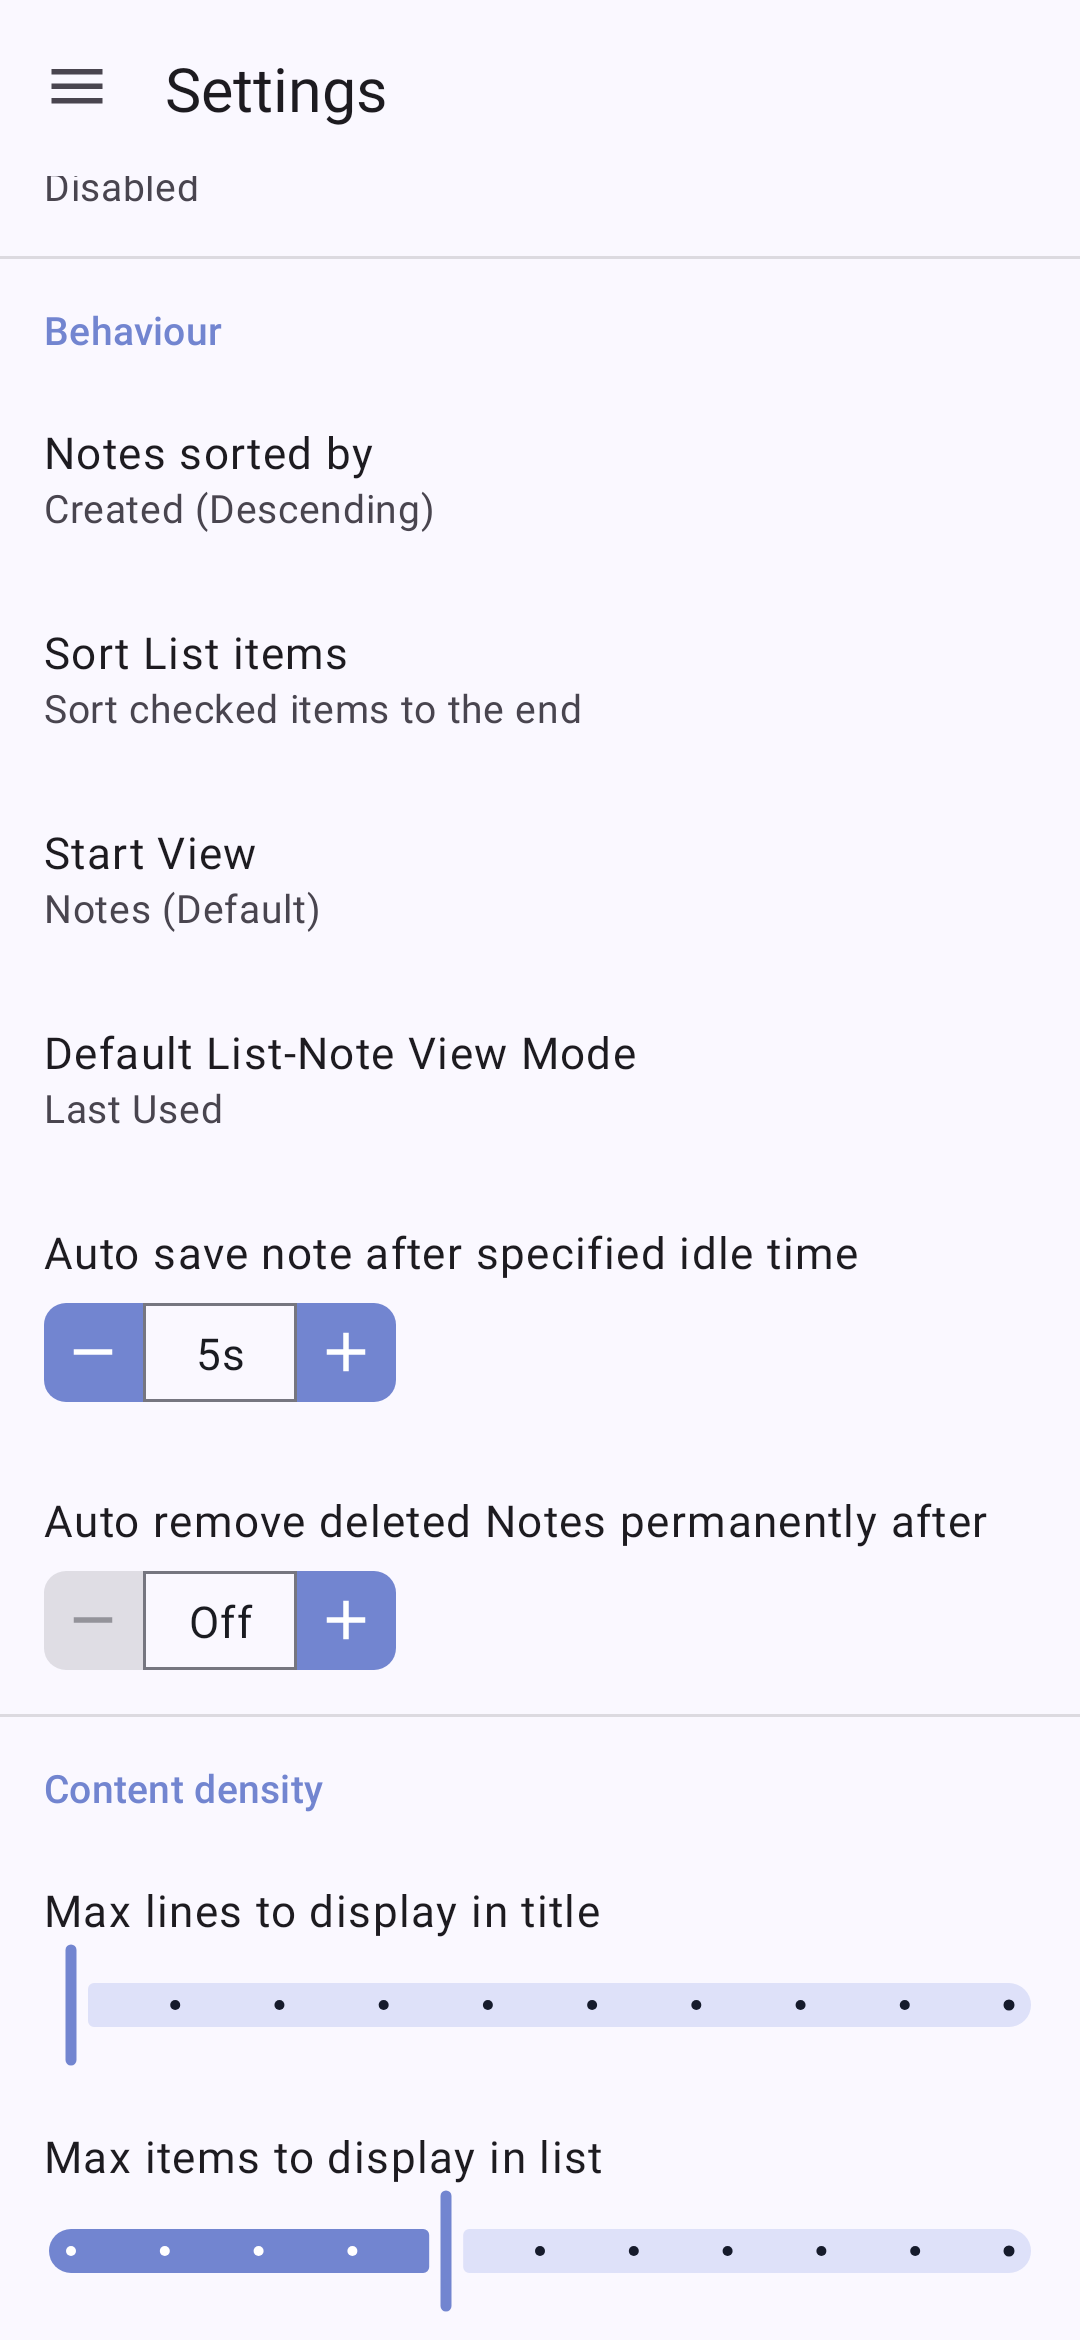
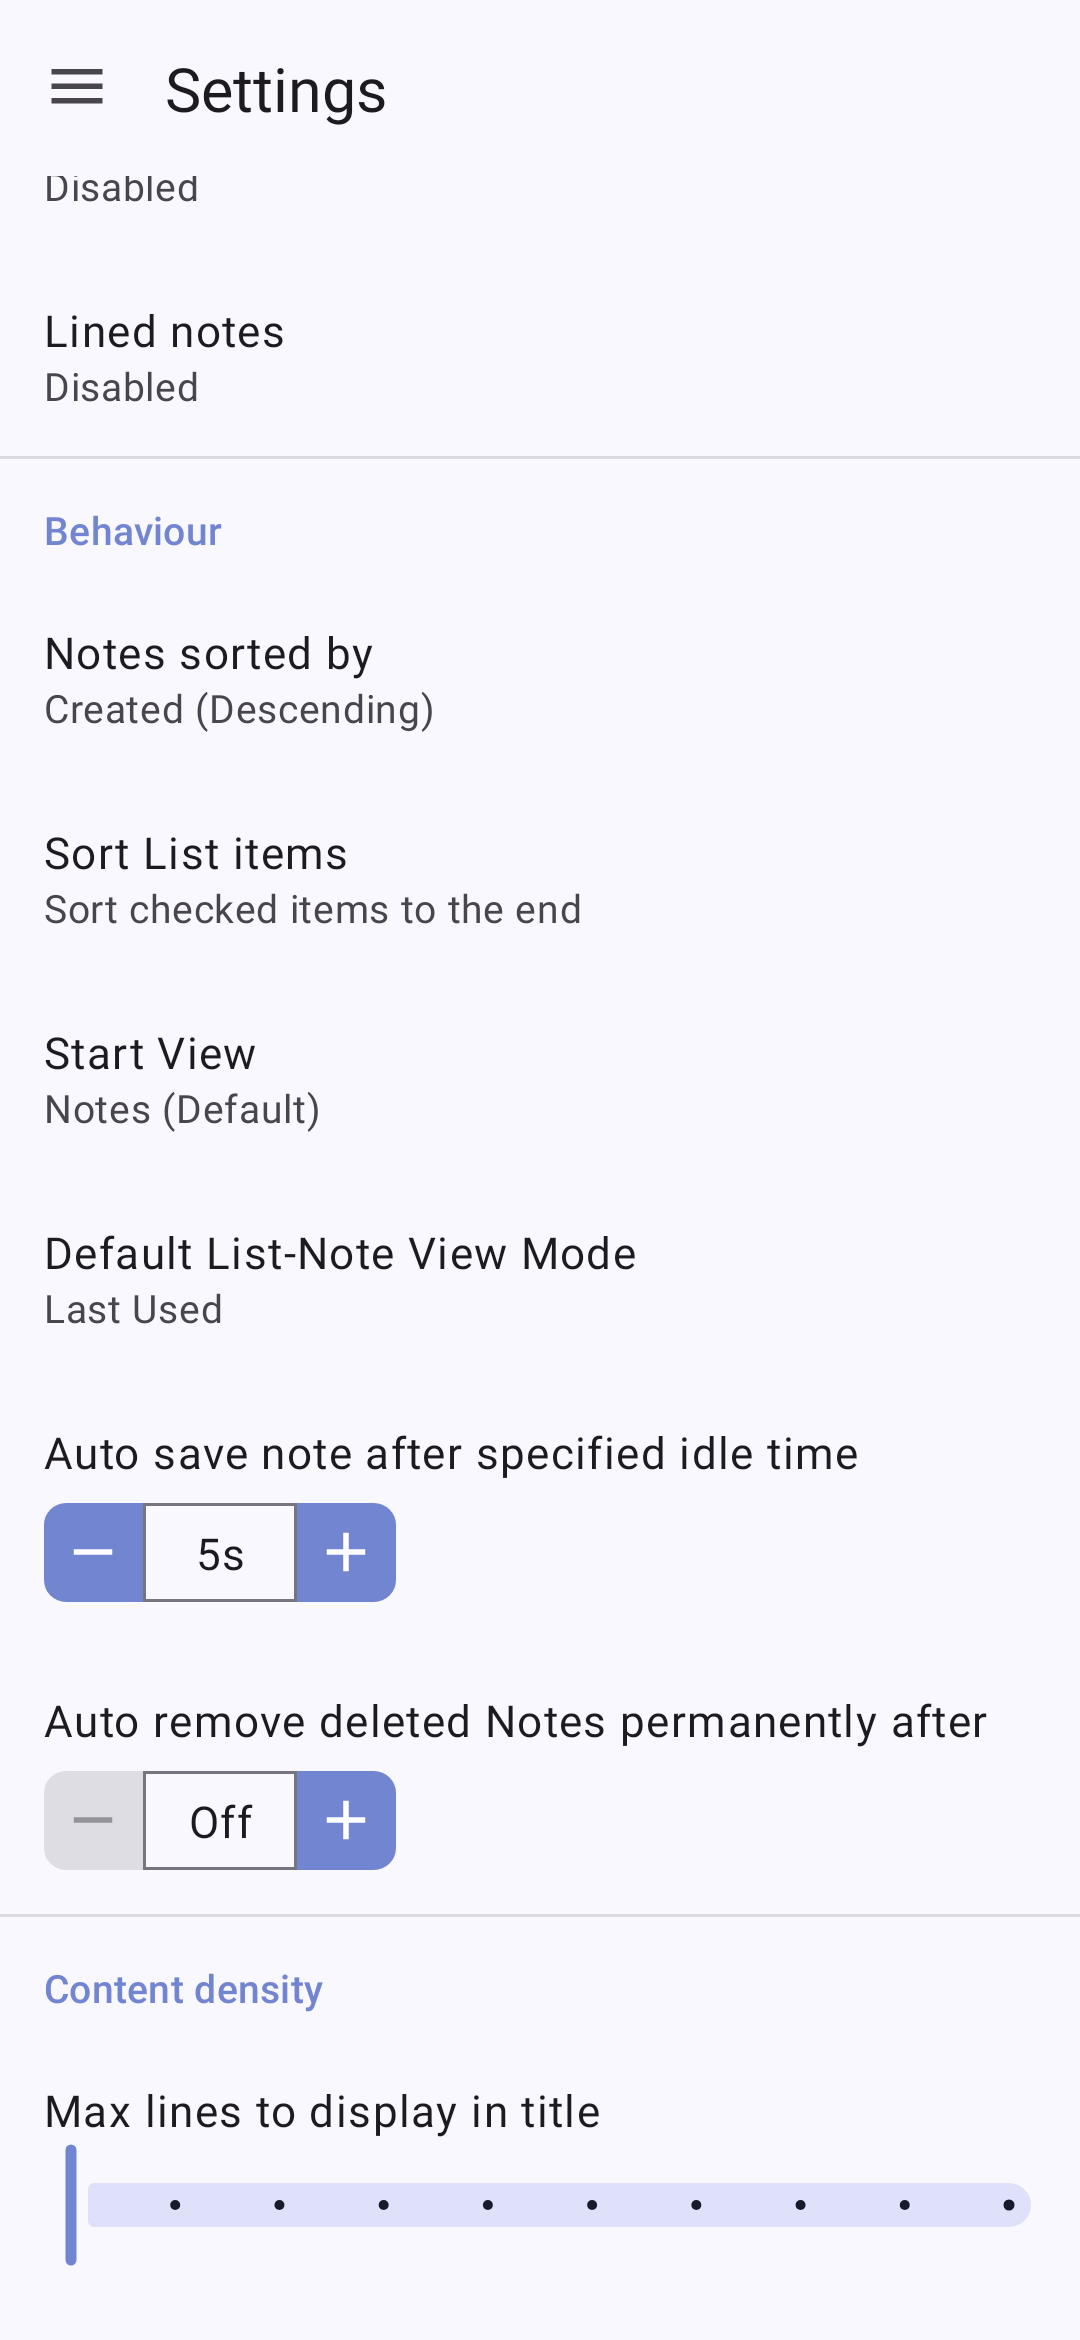
Add optional lined paper to opened text notes

diff --git a/app/src/test/kotlin/com/philkes/notallyx/presentation/activity/main/ScreenshotTests.kt b/app/src/test/kotlin/com/philkes/notallyx/presentation/activity/main/ScreenshotTests.kt
@@ -1,6 +1,9 @@
 package com.philkes.notallyx.presentation.activity.main
 
 import android.content.Intent
+import android.graphics.Bitmap
+import android.graphics.Canvas
+import android.graphics.Color
 import android.os.SystemClock
 import android.view.View
 import android.view.ViewGroup
@@ -45,6 +48,7 @@ import com.philkes.notallyx.data.model.Reminder
 import com.philkes.notallyx.presentation.activity.main.MainActivity.Companion.EXTRA_FRAGMENT_TO_OPEN
 import com.philkes.notallyx.presentation.activity.note.EditActivity.Companion.EXTRA_SELECTED_BASE_NOTE
 import com.philkes.notallyx.presentation.activity.note.EditNoteActivity
+import com.philkes.notallyx.presentation.view.note.NoteLinesDrawable
 import com.philkes.notallyx.presentation.view.note.action.MoreNoteBottomSheet
 import com.philkes.notallyx.presentation.viewmodel.preference.NotesView
 import com.philkes.notallyx.test.FakeAndroidKeyStore
@@ -67,6 +71,8 @@ import kotlinx.coroutines.withContext
 import org.junit.After
 import org.junit.Assert.assertEquals
 import org.junit.Assert.assertFalse
+import org.junit.Assert.assertNull
+import org.junit.Assert.assertTrue
 import org.junit.BeforeClass
 import org.junit.Rule
 import org.junit.Test
@@ -276,6 +282,93 @@ class ScreenshotTests {
             .children
             .first { it.contentDescription == description }
             .performClick()
+    }
+
+    @Test
+    fun linedNotesFollowWrappedAndBlankLinesInPreviewAndEditor() = runTest {
+        val paragraph =
+            "Every visible line follows the size and wrapping of the text. ".repeat(3).trim()
+        val source = "# A heading\n\n$paragraph\n\n- First item\n  - Nested item"
+        val noteId =
+            withContext(Dispatchers.IO) {
+                database
+                    .getBaseNoteDao()
+                    .insert(
+                        createBaseNote(
+                                title = "Lined note",
+                                body = source,
+                                timestamp = fixedTime.time,
+                            )
+                            .copy(format = NoteFormat.MARKDOWN)
+                    )
+            }
+        val originalPreference = preferences.linedNotes.value
+        preferences.linedNotes.save(false)
+        try {
+            val intent =
+                Intent(context, EditNoteActivity::class.java)
+                    .putExtra(EXTRA_SELECTED_BASE_NOTE, noteId)
+            ActivityScenario.launch<EditNoteActivity>(intent).use { scenario ->
+                waitUntilSucceeds {
+                    R.id.MarkdownPreview.byId()
+                        .check(
+                            matches(
+                                withText("A heading\n\n$paragraph\n\n• First item\n– Nested item")
+                            )
+                        )
+                }
+                scenario.onActivity {
+                    assertNull(it.findViewById<View>(R.id.MarkdownPreview).background)
+                }
+                preferences.linedNotes.save(true)
+                waitUntilSucceeds {
+                    R.id.MarkdownPreview.byId().check { view, error ->
+                        error?.let { throw it }
+                        assertLinesAtTextBaselines(view as TextView)
+                    }
+                }
+                onView(isRoot()).captureRoboImage("ScreenshotTests/linedNotes/preview.png")
+                scenario.onActivity { it.findViewById<View>(R.id.MarkdownPreview).performClick() }
+                waitUntilSucceeds {
+                    R.id.EnterBody.byId().check { view, error ->
+                        error?.let { throw it }
+                        assertLinesAtTextBaselines(view as TextView)
+                    }
+                }
+                onView(isRoot()).captureRoboImage("ScreenshotTests/linedNotes/editor.png")
+            }
+        } finally {
+            preferences.linedNotes.save(originalPreference)
+            withContext(Dispatchers.IO) { database.getBaseNoteDao().delete(noteId) }
+        }
+    }
+
+    private fun assertLinesAtTextBaselines(view: TextView) {
+        val lines = view.background
+        assertTrue(lines is NoteLinesDrawable)
+        val layout = checkNotNull(view.layout)
+        assertTrue(layout.lineCount > view.text.count { it == '\n' } + 1)
+        val bitmap = Bitmap.createBitmap(view.width, view.height, Bitmap.Config.ARGB_8888)
+        try {
+            lines.setBounds(0, 0, view.width, view.height)
+            lines.draw(Canvas(bitmap))
+            val x = view.compoundPaddingLeft + 2
+            for (index in 0 until layout.lineCount) {
+                val y =
+                    view.totalPaddingTop - view.scrollY +
+                        layout.getLineBaseline(index) +
+                        view.resources.displayMetrics.density
+                assertTrue(
+                    "Missing line at text row $index",
+                    (y.toInt() - 1..y.toInt() + 1).any {
+                        it in 0 until bitmap.height && Color.alpha(bitmap.getPixel(x, it)) > 0
+                    },
+                )
+            }
+            assertEquals(0, Color.alpha(bitmap.getPixel(x, view.paddingTop)))
+        } finally {
+            bitmap.recycle()
+        }
     }
 
     @Test

diff --git a/app/src/main/java/com/philkes/notallyx/presentation/view/note/NoteLinesDrawable.kt b/app/src/main/java/com/philkes/notallyx/presentation/view/note/NoteLinesDrawable.kt
@@ -1,0 +1,43 @@
+package com.philkes.notallyx.presentation.view.note
+
+import android.graphics.Canvas
+import android.graphics.ColorFilter
+import android.graphics.Paint
+import android.graphics.PixelFormat
+import android.graphics.Rect
+import android.graphics.drawable.Drawable
+import android.widget.TextView
+import com.philkes.notallyx.presentation.withAlpha
+
+internal class NoteLinesDrawable(private val textView: TextView) : Drawable() {
+    private val density = textView.resources.displayMetrics.density
+    private val paint = Paint().apply { strokeWidth = (0.6f * density).coerceAtLeast(1f) }
+    private val clip = Rect()
+
+    override fun draw(canvas: Canvas) {
+        val textLayout = textView.layout ?: return
+        if (!canvas.getClipBounds(clip) || !clip.intersect(bounds)) return
+
+        // The background is fixed to the view. The text can scroll inside its padding.
+        val textTop = textView.totalPaddingTop - textView.scrollY
+        val top = maxOf(clip.top, textView.extendedPaddingTop)
+        val bottom = minOf(clip.bottom, textView.height - textView.extendedPaddingBottom)
+        if (top >= bottom) return
+
+        val left = textView.compoundPaddingLeft.toFloat()
+        val right = (textView.width - textView.compoundPaddingRight).toFloat()
+        val firstLine = textLayout.getLineForVertical(top - textTop)
+        val lastLine = textLayout.getLineForVertical(bottom - textTop)
+        paint.color = textView.currentTextColor.withAlpha(0.22f)
+        for (line in firstLine..lastLine) {
+            val y = textTop + textLayout.getLineBaseline(line) + density
+            if (y >= top && y < bottom) canvas.drawLine(left, y, right, y, paint)
+        }
+    }
+
+    override fun setAlpha(alpha: Int) {}
+
+    override fun setColorFilter(colorFilter: ColorFilter?) {}
+
+    @Deprecated("Required by Drawable") override fun getOpacity() = PixelFormat.TRANSLUCENT
+}

diff --git a/app/src/main/java/com/philkes/notallyx/presentation/activity/note/EditNoteActivity.kt b/app/src/main/java/com/philkes/notallyx/presentation/activity/note/EditNoteActivity.kt
@@ -29,12 +29,14 @@ import com.philkes.notallyx.databinding.RecyclerToggleBinding
 import com.philkes.notallyx.presentation.addIconButton
 import com.philkes.notallyx.presentation.dp
 import com.philkes.notallyx.presentation.hideKeyboard
+import com.philkes.notallyx.presentation.repeatOnLifecycleScope
 import com.philkes.notallyx.presentation.setCancelButton
 import com.philkes.notallyx.presentation.setControlsContrastColorForAllViews
 import com.philkes.notallyx.presentation.setOnNextAction
 import com.philkes.notallyx.presentation.showKeyboard
 import com.philkes.notallyx.presentation.showToast
 import com.philkes.notallyx.presentation.view.misc.highlightableview.HighlightSpan
+import com.philkes.notallyx.presentation.view.note.NoteLinesDrawable
 import com.philkes.notallyx.presentation.view.note.TextFormattingAdapter
 import com.philkes.notallyx.presentation.view.note.action.Action
 import com.philkes.notallyx.presentation.view.note.action.AddNoteBottomSheet
@@ -202,6 +204,18 @@ class EditNoteActivity : EditActivity(Type.NOTE) {
                 if (binding.MarkdownPreview.isVisible) updateMarkdownPreview()
                 else updateSearchResults(search.query)
                 updateJumpButtonsVisibility()
+            }
+        }
+    }
+
+    override fun setupAdditionalListeners() {
+        super.setupAdditionalListeners()
+        repeatOnLifecycleScope {
+            preferences.linedNotes.flow.collect { enabled ->
+                binding.EnterBody.background =
+                    if (enabled) NoteLinesDrawable(binding.EnterBody) else null
+                binding.MarkdownPreview.background =
+                    if (enabled) NoteLinesDrawable(binding.MarkdownPreview) else null
             }
         }
     }

diff --git a/app/src/main/java/com/philkes/notallyx/presentation/viewmodel/preference/NotallyXPreferences.kt b/app/src/main/java/com/philkes/notallyx/presentation/viewmodel/preference/NotallyXPreferences.kt
@@ -47,6 +47,7 @@ class NotallyXPreferences private constructor(private val context: ContextWrappe
         FloatPreference("textSizeOverview", preferences, 16f, 12f, 32f, R.string.text_size_overview)
     val newNotesUseMarkdown =
         BooleanPreference("widgetMarkdown", preferences, false, R.string.new_notes_use_markdown)
+    val linedNotes = BooleanPreference("linedNotes", preferences, false, R.string.lined_notes)
     val dateFormatOverview =
         createEnumPreference(
             preferences,
@@ -361,6 +362,7 @@ class NotallyXPreferences private constructor(private val context: ContextWrappe
                 textSizeNoteEditor,
                 textSizeOverview,
                 newNotesUseMarkdown,
+                linedNotes,
                 dateFormatOverview,
                 timeFormatOverview,
                 dateFormatNoteView,

diff --git a/app/src/main/java/com/philkes/notallyx/presentation/activity/main/fragment/settings/SettingsFragment.kt b/app/src/main/java/com/philkes/notallyx/presentation/activity/main/fragment/settings/SettingsFragment.kt
@@ -417,6 +417,20 @@ class SettingsFragment : Fragment() {
             }
 
             launch {
+                linedNotes.flow.collect { enabled ->
+                    binding.LinedNotes.setup(
+                        linedNotes,
+                        enabled,
+                        requireContext(),
+                        layoutInflater,
+                        R.string.lined_notes_description,
+                    ) { value ->
+                        model.savePreference(linedNotes, value)
+                    }
+                }
+            }
+
+            launch {
                 notesSorting.flow.collect { notesSort ->
                     binding.NotesSortOrder.setup(
                         notesSorting,

diff --git a/README.md b/README.md
@@ -27,6 +27,7 @@
 
 ### Appearance
 
+- Turn on **Settings → Appearance → Lined notes** to add faint horizontal lines to the text in opened notes. The lines follow wrapped and blank lines in both the Markdown preview and the editor.
 - Select `dd.MM.yyyy` for dates such as `18.11.2026`. The overview and the opened-note view each have their own setting under **Settings → Appearance**.
 - Drag in the color wheel or along the hue and brightness sliders. The color swatch and hex value update as you drag.
 
